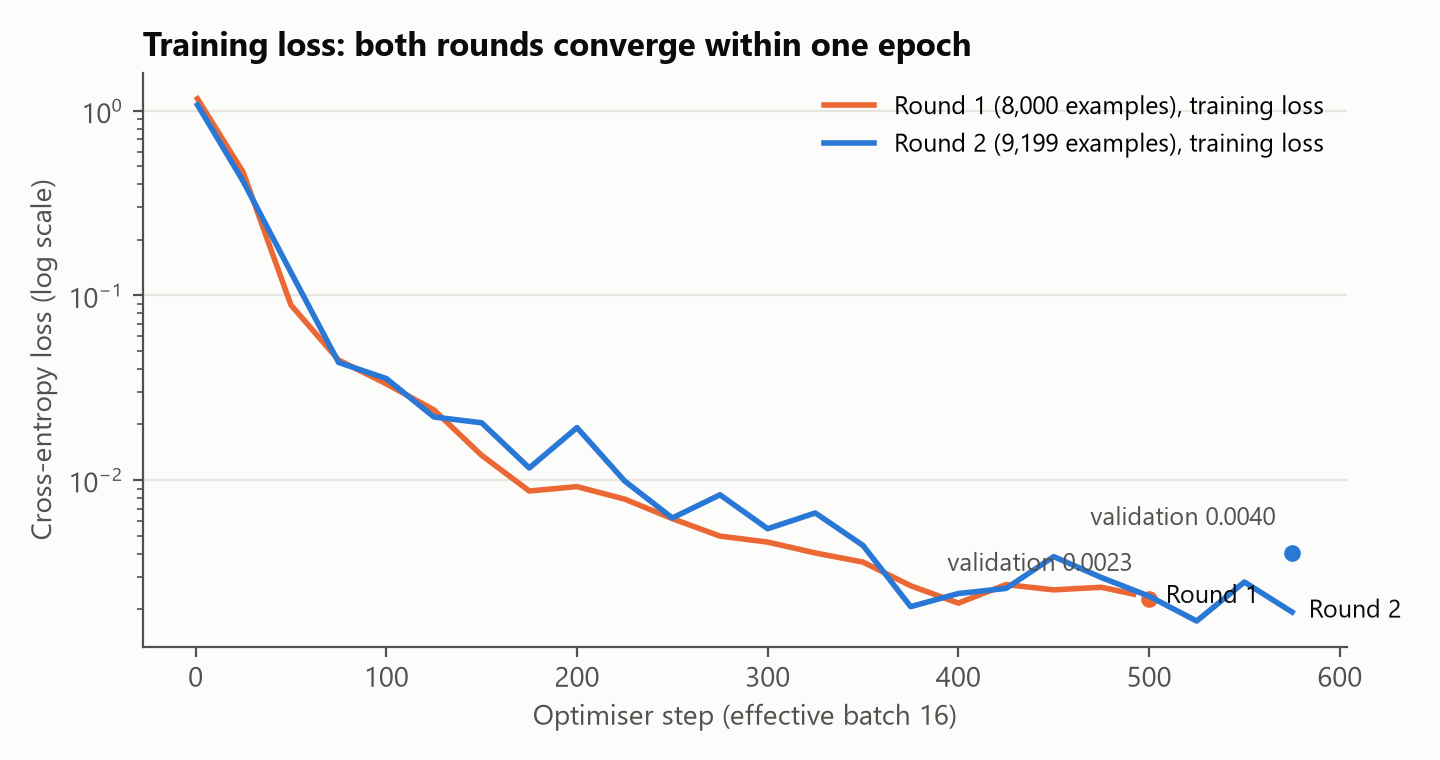
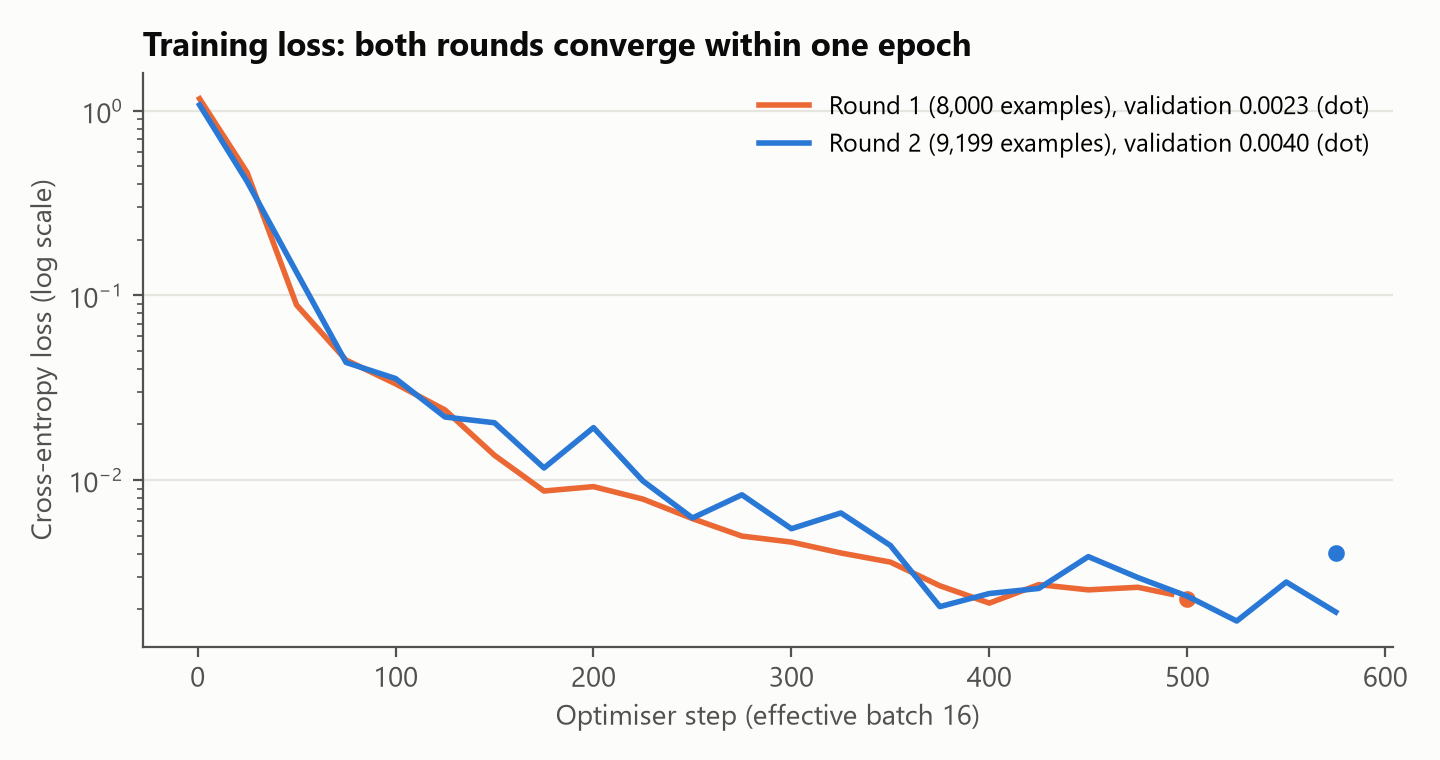
Figures: print-ready report mode and a cleaner loss plot
- KMRL_FIG_MODE=report writes white-background figures without in-image
  titles to reports/figures/report/ (the report gives numbered captions)
- Loss plot: validation losses move into the legend (end labels collided)
- Value labels below 100% keep one decimal (99.6%, not 100%)

Claude-Session: https://claude.ai/code/session_01CJLWpiDsjioJ4w3DbAtbtY

diff --git a/ml/make_figures.py b/ml/make_figures.py
@@ -10,6 +10,7 @@ model (copied into ml/reports/ so the figures can be rebuilt without the model f
 from __future__ import annotations
 
 import json
+import os
 import shutil
 from collections import Counter
 from pathlib import Path
@@ -21,13 +22,15 @@ import matplotlib.pyplot as plt  # noqa: E402
 
 ROOT = Path(__file__).resolve().parent
 REPORTS = ROOT / "reports"
-FIGS = REPORTS / "figures"
+# KMRL_FIG_MODE=report: white background, no titles inside the images (the report gives numbered captions).
+REPORT_MODE = os.environ.get("KMRL_FIG_MODE") == "report"
+FIGS = REPORTS / "figures" / "report" if REPORT_MODE else REPORTS / "figures"
 MODELS = ROOT.parent / "backend" / "models"
 
 # Validated categorical palette (dataviz reference slots 1-3; all-pairs CVD-safe), fixed per entity.
 ROUND2, ROUND1, RULES = "#2a78d6", "#eb6834", "#1baf7a"
 NEUTRAL = "#b9b7b0"
-INK, INK_2, GRID, SURFACE = "#0b0b0b", "#52514e", "#e7e5df", "#fcfcfb"
+INK, INK_2, GRID, SURFACE = "#0b0b0b", "#52514e", "#e7e5df", "#ffffff" if REPORT_MODE else "#fcfcfb"
 
 # Gemini scores come from the cloud edition's evaluation on the same test set (METECH-Cloud/eval).
 GEMINI = {"logbook": 1.0, "questions": 1.0}
@@ -56,6 +59,11 @@ def history(round_name: str, model_dir: str) -> list[dict]:
     return json.loads(cached.read_text(encoding="utf-8"))["history"] if cached.exists() else []
 
 
+def title(ax, text: str, **kw) -> None:
+    if not REPORT_MODE:
+        ax.set_title(text, **kw)
+
+
 def grid(ax, axis: str) -> None:
     ax.grid(axis=axis, color=GRID, linewidth=0.8)
     ax.set_axisbelow(True)
@@ -72,15 +80,15 @@ def fig_loss() -> None:
         if not train:
             continue
         xs, ys = zip(*train)
-        ax.plot(xs, ys, color=color, linewidth=2, label=f"{label}, training loss")
+        # The final validation loss rides in the legend: labels at the curve ends collide (both end near 0.002).
+        val_note = f", validation {val[-1][1]:.4f} (dot)" if val else ""
+        ax.plot(xs, ys, color=color, linewidth=2, label=f"{label}{val_note}")
         for vx, vy in val:
             ax.plot([vx], [vy], marker="o", markersize=8, color=color, markeredgecolor=SURFACE, markeredgewidth=2, linestyle="none")
-            ax.annotate(f"validation {vy:.4f}", (vx, vy), textcoords="offset points", xytext=(-6, 10), ha="right", color=INK_2, fontsize=9)
-        ax.annotate(label.split(" (")[0], (xs[-1], ys[-1]), textcoords="offset points", xytext=(6, -2), color=INK, fontsize=9)
     ax.set_yscale("log")
     ax.set_xlabel("Optimiser step (effective batch 16)")
     ax.set_ylabel("Cross-entropy loss (log scale)")
-    ax.set_title("Training loss: both rounds converge within one epoch")
+    title(ax, "Training loss: both rounds converge within one epoch")
     grid(ax, "y")
     ax.legend(frameon=False, loc="upper right", fontsize=9)
     fig.tight_layout()
@@ -133,7 +141,8 @@ def fig_comparison(rows: list[dict]) -> None:
     axes[0].set_yticks(range(len(rows)), labels)
     axes[0].invert_yaxis()
     fig.tight_layout(rect=(0, 0.07, 1, 1))
-    fig.text(0.01, 0.015, "Hand-written real-world test set (43 logbook messages, 25 questions)", ha="left", va="bottom", color=INK_2, fontsize=9.5)
+    if not REPORT_MODE:
+        fig.text(0.01, 0.015, "Hand-written real-world test set (43 logbook messages, 25 questions)", ha="left", va="bottom", color=INK_2, fontsize=9.5)
     fig.savefig(FIGS / "fig2_results_comparison.png", dpi=200)
     plt.close(fig)
 
@@ -172,12 +181,14 @@ def fig_per_action() -> dict:
         ax.barh(ys, [vals.get(a, 0) * 100 for a in actions], height=h, color=color, edgecolor=SURFACE, linewidth=2, label=name)
     for k, a in enumerate(actions):   # label only our model's bars, to keep the chart quiet
         v = series[0][0].get(a, 0) * 100
-        ax.text(v + 1, k - h, f"{v:.0f}%", va="center", color=INK, fontsize=8.5)
+        ax.text(v + 1, k - h, (f"{v:.1f}%" if v < 99.95 else "100%"), va="center", color=INK, fontsize=8.5)
     ax.set_yticks(range(len(actions)), [ACTION_LABELS[a] for a in actions])
     ax.invert_yaxis()
     ax.set_xlim(0, 110)
     ax.set_xlabel("Recall: share of expected updates extracted (synthetic + real-world test sets)")
-    ax.set_title("Where the gains come from, by update type", pad=30)
+    title(ax, "Where the gains come from, by update type", pad=30)
+    if REPORT_MODE:
+        ax.set_title(" ", pad=22)   # room for the legend above the bars
     grid(ax, "x")
     ax.spines["left"].set_visible(False)
     ax.tick_params(axis="y", length=0)
@@ -217,7 +228,7 @@ def fig_dataset() -> dict:
     ax.set_yticks(ys, [k for k, _ in items])
     ax.invert_yaxis()
     ax.set_xlabel("Labelled items in the round-2 training set")
-    ax.set_title("Training data: what the model learned from")
+    title(ax, "Training data: what the model learned from")
     grid(ax, "x")
     ax.spines["left"].set_visible(False)
     ax.tick_params(axis="y", length=0)
